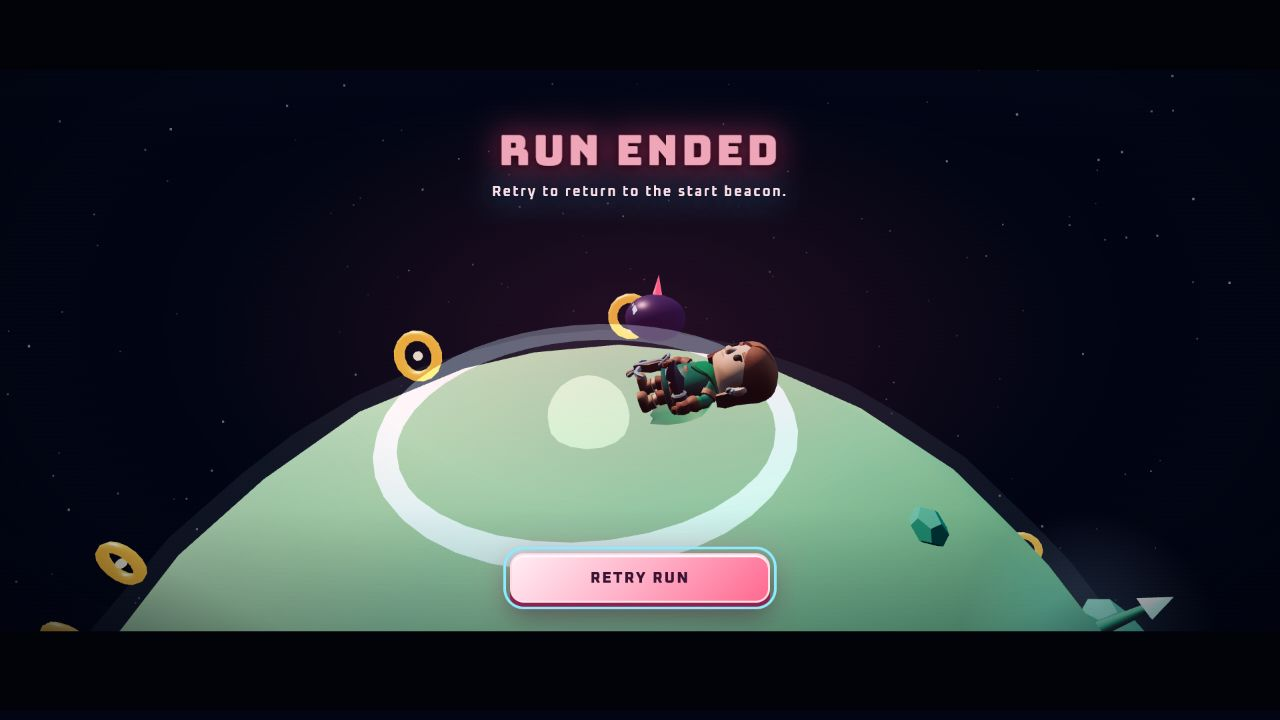
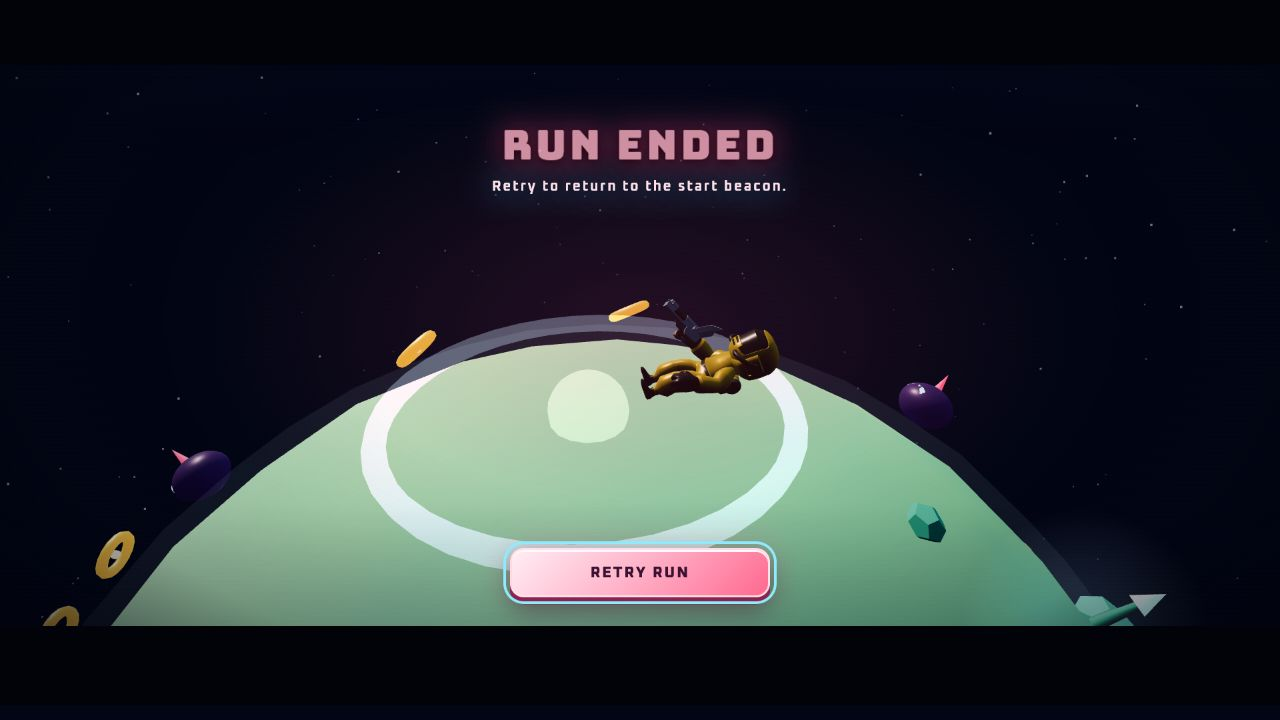
feat: add external hero crown and presentation states

diff --git a/src/game/Game.ts b/src/game/Game.ts
@@ -165,6 +165,7 @@ export class Game {
   private bossMeterText!: HTMLElement;
   private coinText!: HTMLElement;
   private healthText!: HTMLElement;
+  private relicText!: HTMLElement;
   private statusText!: HTMLElement;
   private debugText!: HTMLElement;
   private muteButton!: HTMLButtonElement;
@@ -197,6 +198,7 @@ export class Game {
     this.bossMeterText = this.element('.boss-meter-text');
     this.coinText = this.element('.coin-count');
     this.healthText = this.element('.health-count');
+    this.relicText = this.element('.relic-count');
     this.statusText = this.element('.status-copy');
     this.debugText = this.element('.debug-panel');
     this.muteButton = this.element<HTMLButtonElement>('.mute-button');
@@ -205,7 +207,11 @@ export class Game {
     this.bindUi();
     this.resize();
     this.updateUi();
-    void Promise.all([this.loadCharacterModel(), this.loadLaunchPortalModel()]).then(this.finishLoading);
+    void Promise.all([
+      this.loadCharacterModel(),
+      this.loadLaunchPortalModel(),
+      this.loadRelicModel(),
+    ]).then(this.finishLoading);
     window.addEventListener('resize', this.resize);
     window.__starboundDebug = () => this.debugSnapshot();
   }
@@ -829,6 +835,16 @@ export class Game {
     const heading = this.playerHeading.clone().projectOnPlane(normal);
     if (heading.lengthSq() < 0.001) heading.copy(WORLD_UP).projectOnPlane(normal);
     heading.normalize();
+    // The Warden has already been defeated before either crown can be
+    // claimed. Keep its collapse out of the reward composition so it cannot
+    // sit between the camera and Nova while the celebration starts.
+    if (this.activePlanet.boss?.defeated) {
+      this.activePlanet.boss.mesh.visible = false;
+      // The arena ring is a separate group, so hide it with the Warden to
+      // keep its purple circle from becoming a foreground occluder.
+      const bossArena = this.activePlanet.group.getObjectByName('boss arena');
+      if (bossArena) bossArena.visible = false;
+    }
     this.phase = 'bossVictory';
     this.bossVictoryCinematic = {
       // Snap the reward beat to the planet surface even when the relic was
@@ -878,11 +894,18 @@ export class Game {
     const cameraSide = new THREE.Vector3().crossVectors(normal, cinematicForward).normalize();
     if (cameraSide.lengthSq() < 0.001) cameraSide.set(1, 0, 0);
     const cameraPosition = position.clone()
-      .addScaledVector(normal, THREE.MathUtils.lerp(7.8, 9.6, beat))
-      .addScaledVector(cameraSide, Math.sin(orbit) * THREE.MathUtils.lerp(2.8, 4.8, beat))
-      .addScaledVector(cinematicForward, 7.8 + Math.cos(orbit) * 2.2);
-    const cameraTarget = position.clone().addScaledVector(normal, 1.1);
-    this.camera.position.lerp(cameraPosition, 1 - Math.exp(-4.6 * delta));
+      // Keep the camera on an outward-normal line so the Warden cannot sit
+      // between Nova and the lens during the crown beat. A small tangent
+      // offset adds motion without turning the reward into an occlusion shot.
+      .addScaledVector(normal, THREE.MathUtils.lerp(13.5, 16.5, beat))
+      .addScaledVector(cameraSide, Math.sin(orbit) * THREE.MathUtils.lerp(4.2, 6.4, beat))
+      .addScaledVector(cinematicForward, 2.4 + Math.cos(orbit) * 1.1);
+    // Aim slightly above Nova's helmet so the model settles low in frame,
+    // beneath the title card, while the sphere-normal still controls screen
+    // up. A faster ease keeps the first reward beat from starting in the
+    // previous follow-camera pose.
+    const cameraTarget = position.clone().addScaledVector(normal, 1.45);
+    this.camera.position.lerp(cameraPosition, 1 - Math.exp(-9 * delta));
     this.camera.up.copy(normal);
     this.camera.lookAt(cameraTarget);
 
@@ -980,6 +1003,11 @@ export class Game {
         coin.mesh.visible = false;
         this.coins += 1;
       }
+      // Keep the deterministic crown capture representative of the actual
+      // reward beat: the Warden has fallen, then the ring relic is claimed.
+      if (finalPlanet.boss && !finalPlanet.boss.defeated) {
+        finalPlanet.damageBoss(finalPlanet.boss.health);
+      }
       const ringRelic = finalPlanet.relics.find((relic) => relic.source === 'rings');
       if (ringRelic) {
         this.placePlayerAt(finalPlanet, ringRelic.normal);
@@ -1066,6 +1094,8 @@ export class Game {
       ? 'Launch halo charged — stand inside it and press JUMP.'
       : `Charge the launch halo: ${remaining} star token${remaining === 1 ? '' : 's'} remaining.`;
     if (planet.isBossPlanet) {
+      this.relicText.classList.remove('is-hidden');
+      this.relicText.textContent = `CROWNS ${planet.relicsCollected}/${planet.relics.length}`;
       const remaining = Math.max(0, planet.relicRingTarget - planet.collectedCoins);
       const collectedRelics = planet.relicsCollected;
       const totalRelics = planet.relics.length;
@@ -1076,6 +1106,9 @@ export class Game {
           : collectedRelics > 0
             ? 'Defeat the Crown Warden to claim the second Aurora Crown relic.'
           : `Defeat the Crown Warden or collect ${remaining} more ring${remaining === 1 ? '' : 's'} to awaken a relic.`;
+    } else {
+      this.relicText.classList.add('is-hidden');
+      this.relicText.textContent = '';
     }
     if (planet.isBossPlanet && planet.boss) {
       this.bossCard.classList.remove('is-hidden');
@@ -1173,9 +1206,11 @@ export class Game {
           node.receiveShadow = false;
         }
         // The toon-shooter GLB contains every gun/knife variant in one file.
-        // Hide those props; the game's dedicated two-slot weapon presentation
-        // owns the visible loadout and avoids the previous weapon pile-up.
-        if (/^(Revolver|Sniper|Pistol|SMG|GrenadeLauncher|ShortCannon|Shotgun|RocketLauncher|AK|Shovel|Knife)/.test(node.name)) {
+        // Keep one compact blaster and one knife for the game's two-slot
+        // attack presentation, and hide every other authored weapon branch.
+        const isWeaponRoot = /^(Revolver|Sniper|Pistol|SMG|GrenadeLauncher|ShortCannon|Shotgun|RocketLauncher|AK|Shovel|Knife)/.test(node.name)
+          && Boolean(node.parent && /Index1R|Index2R|Index3R/.test(node.parent.name));
+        if (isWeaponRoot && !/^(Pistol|Knife_1)$/.test(node.name)) {
           node.visible = false;
         }
       });
@@ -1244,6 +1279,30 @@ export class Game {
     }
   }
 
+  private async loadRelicModel(): Promise<void> {
+    try {
+      const { GLTFLoader } = await import('three/addons/loaders/GLTFLoader.js');
+      const loader = new GLTFLoader();
+      await new Promise<void>((resolve) => {
+        loader.load(
+          assetPath('assets/relics/quaternius-aurora-crown.glb'),
+          (gltf) => {
+            for (const planet of this.planets) planet.attachRelicModel(gltf.scene);
+            this.loadedAssetIds.push('quaternius-aurora-crown');
+            resolve();
+          },
+          undefined,
+          () => {
+            this.assetErrors.push('quaternius-aurora-crown: failed to load; using procedural crown aura');
+            resolve();
+          },
+        );
+      });
+    } catch {
+      this.assetErrors.push('quaternius-aurora-crown: loader failed to initialize; using procedural crown aura');
+    }
+  }
+
   private readonly finishLoading = async (): Promise<void> => {
     const remaining = MINIMUM_LOADING_SCREEN_DURATION - (performance.now() - this.loadingStartedAt);
     if (remaining > 0) {
@@ -1292,7 +1351,7 @@ export class Game {
         <header class="hud is-hidden" aria-live="polite">
           <div class="hud-brand"><span>STARBOUND</span><b>SPRINT</b></div>
           <div class="hud-route"><span class="route-label">CURRENT ORBIT</span><strong class="hud-planet"></strong></div>
-          <div class="hud-stats"><span class="coin-count"></span><span class="health-count"></span></div>
+          <div class="hud-stats"><span class="coin-count"></span><span class="health-count"></span><span class="relic-count is-hidden" aria-label="Aurora Crown relics collected"></span></div>
           <button class="mute-button" type="button" aria-pressed="false">SOUND ON</button>
           <section class="mission-card"><span class="mission-label">OBJECTIVE</span><p class="mission-copy"></p></section>
           <section class="boss-card is-hidden" aria-live="polite"><div class="boss-card-heading"><span class="mission-label">CROWN WARDEN</span><strong class="boss-meter-text"></strong></div><div class="boss-meter"><i class="boss-meter-fill"></i></div></section>

diff --git a/src/game/World.ts b/src/game/World.ts
@@ -376,6 +376,7 @@ function createRelic(): THREE.Group {
     blending: THREE.AdditiveBlending,
   });
   const crown = new THREE.Mesh(new THREE.TorusGeometry(0.72, 0.13, 8, 28), crownMaterial);
+  crown.name = 'procedural-relic-crown';
   crown.rotation.x = Math.PI / 2;
   const core = new THREE.Mesh(new THREE.OctahedronGeometry(0.38, 1), coreMaterial);
   core.position.y = 0.18;
@@ -803,6 +804,37 @@ export class Planet {
     this.launchPad.add(model);
   }
 
+  /**
+   * Replaces the simple torus crown silhouette with a shared imported relic
+   * while retaining the cyan core/beam as the cheap readability fallback.
+   */
+  attachRelicModel(source: THREE.Object3D): void {
+    for (const relic of this.relics) {
+      const model = source.clone(true);
+      model.name = 'quaternius aurora crown';
+      model.traverse((node) => {
+        if (node instanceof THREE.Mesh) {
+          node.castShadow = false;
+          node.receiveShadow = false;
+        }
+      });
+      const bounds = new THREE.Box3().setFromObject(model);
+      const sourceSize = bounds.getSize(new THREE.Vector3());
+      const targetSize = 1.55;
+      const scale = targetSize / Math.max(0.001, Math.max(sourceSize.x, sourceSize.y, sourceSize.z));
+      model.scale.setScalar(scale);
+      const scaledBounds = new THREE.Box3().setFromObject(model);
+      const center = scaledBounds.getCenter(new THREE.Vector3());
+      model.position.set(-center.x, -scaledBounds.min.y + 0.24, -center.z);
+      model.rotation.y = Math.PI;
+      const fallback = relic.mesh.getObjectByName('procedural-relic-crown');
+      if (fallback) fallback.visible = false;
+      const previous = relic.mesh.getObjectByName('quaternius aurora crown');
+      if (previous) relic.mesh.remove(previous);
+      relic.mesh.add(model);
+    }
+  }
+
   collectNear(normal: THREE.Vector3, threshold = 1.15): Coin | undefined {
     const coin = this.coins.find((candidate) => !candidate.collected && arcDistance(candidate.normal, normal, this.definition.radius) < threshold);
     if (!coin) return undefined;
@@ -1178,7 +1210,7 @@ interface WeaponPose {
   readonly equipScale: THREE.Vector3;
 }
 
-const HERO_WEAPON_LOADOUT = new Set(['1H_Crossbow', 'Knife_Offhand']);
+const HERO_WEAPON_LOADOUT = new Set(['1H_Crossbow', 'Knife_Offhand', 'Pistol', 'Knife_1']);
 const HERO_HIDDEN_WEAPONS = new Set(['2H_Crossbow', 'Knife', 'Throwable']);
 
 export interface HeroVisual {
@@ -1254,10 +1286,10 @@ export function createHeroVisual(): HeroVisual {
   }
   fallback.add(body, helmet, visorMesh, pack, core);
 
-  // The source rogue ships every hand-slot prop in the same scene. Keep a
-  // readable two-piece loadout (crossbow + offhand knife), and animate those
-  // props independently so equip/attack beats remain visible even when the
-  // authored arm clips are cross-faded. The knife is a vertical cylinder, so
+  // Character sources can ship every hand-slot prop in one scene. Keep a
+  // readable two-piece loadout (blaster/crossbow + offhand knife), and animate
+  // those props independently so equip/attack beats remain visible even when
+  // the authored arm clips are cross-faded. The knife is a vertical cylinder, so
   // it needs a roll around its local Z axis to read as a slash (a small Y
   // recoil, which works for the crossbow, is almost invisible on the blade).
   let weaponPoses: WeaponPose[] = [];
@@ -1283,7 +1315,7 @@ export function createHeroVisual(): HeroVisual {
       // the source GLB or introducing another weapon mesh.
       const pulse = Math.sin(progress * Math.PI);
       for (const pose of weaponPoses) {
-        const isKnife = pose.object.name === 'Knife_Offhand';
+        const isKnife = /knife/i.test(pose.object.name);
         pose.object.position.copy(pose.position);
         pose.object.position.z -= pulse * (isKnife ? 0.13 : 0.075);
         pose.object.position.x += (isKnife ? -1 : 1) * pulse * (isKnife ? 0.07 : 0.035);

diff --git a/src/harness/PresentationHarness.ts b/src/harness/PresentationHarness.ts
@@ -222,7 +222,8 @@ export class PresentationHarness {
   private async loadAssets(): Promise<void> {
     const manifest = await this.loadManifest();
     const models = (manifest?.assets ?? []).filter((asset) => asset.kind === 'model/gltf-binary' && asset.url);
-    const characterAsset = models.find((asset) => /character|rogue|hero/i.test(`${asset.id} ${asset.url}`));
+    const characterAsset = models.find((asset) => asset.id === 'quaternius-hazmat')
+      ?? models.find((asset) => /character|rogue|hero/i.test(`${asset.id} ${asset.url}`));
     const crownAsset = models.find((asset) => /crown|relic|aurora/i.test(`${asset.id} ${asset.url}`));
     const portalAsset = models.find((asset) => /portal|gate/i.test(`${asset.id} ${asset.url}`));
 
@@ -252,7 +253,7 @@ export class PresentationHarness {
     this.stations[2].group.add(defeatPatch);
     const defeat = await this.loadOrFallbackCharacter(characterAsset?.url);
     this.placeCharacterOnPatch(defeat, defeatPatch, 'Death_A');
-    const deathAction = this.findAction(defeat, ['Death_A', 'Death_B', 'Hit_A']);
+    const deathAction = this.findAction(defeat, ['Death_A', 'Death_B', 'Death', 'Hit_A', 'HitReact']);
     if (deathAction) {
       deathAction.reset().play();
       deathAction.time = deathAction.getClip().duration * 0.96;
@@ -303,6 +304,13 @@ export class PresentationHarness {
           node.castShadow = false;
           node.receiveShadow = false;
         }
+        // The Quaternius hazmat file ships a complete firearm shelf in one
+        // scene. Hide those variants in the review room just as the game
+        // loader does, so the character silhouette is judged without a weapon
+        // pile-up.
+        if (/^(Revolver|Sniper|Pistol|SMG|GrenadeLauncher|ShortCannon|Shotgun|RocketLauncher|AK|Shovel|Knife)/.test(node.name)) {
+          node.visible = false;
+        }
       });
       return { root: gltf.scene, mixer, clips, source: url };
     } catch {
@@ -324,7 +332,9 @@ export class PresentationHarness {
     const patchRadius = 1.22;
     normalized.position.set(patch.position.x, patch.position.y + patchRadius * 2 + 0.015, patch.position.z);
     normalized.rotation.set(0, Math.PI, 0);
-    const action = this.findAction(model, [clipName, clipName === 'Death_A' ? 'Death_B' : 'Cheer']);
+    const action = this.findAction(model, clipName === 'Death_A'
+      ? ['Death_A', 'Death_B', 'Death', 'Hit_A', 'HitReact']
+      : ['Cheer', 'Wave', 'Dance', 'Victory']);
     if (action) {
       action.reset().setLoop(THREE.LoopRepeat, Infinity).play();
       if (clipName === 'Death_A') action.setLoop(THREE.LoopOnce, 1);
@@ -333,7 +343,11 @@ export class PresentationHarness {
 
   private findAction(model: LoadedModel, names: string[]): THREE.AnimationAction | undefined {
     if (!model.mixer) return undefined;
-    const clip = names.map((name) => model.clips.get(name)).find((candidate): candidate is THREE.AnimationClip => Boolean(candidate));
+    const normalizedNames = names.map((name) => name.toLowerCase().replace(/[^a-z0-9]/g, ''));
+    const clip = [...model.clips.values()].find((candidate) => {
+      const clipName = candidate.name.toLowerCase().replace(/[^a-z0-9]/g, '');
+      return normalizedNames.some((name) => clipName === name || clipName.endsWith(name));
+    });
     return clip ? model.mixer.clipAction(clip) : undefined;
   }
 

diff --git a/src/styles.css b/src/styles.css
@@ -273,6 +273,8 @@ button {
 }
 
 .health-count { color: #ff8ea5; letter-spacing: 0.12em; }
+.relic-count { color: #d7b9ff; font-size: 0.7rem; letter-spacing: 0.1em; }
+.relic-count.is-hidden { opacity: 0; visibility: hidden; }
 
 .mute-button {
   position: absolute;

diff --git a/docs/qa/presentation-review.md b/docs/qa/presentation-review.md
@@ -7,26 +7,28 @@ capture in `presentation-harness.png` contains four fixed stations:
 | Station | Acceptance check |
 | --- | --- |
 | Portal | Gate transform stays fixed over time; the uncharged circle is dim and the charged circle is the only illuminated state. |
-| Celebration | Nova's feet meet the top of the sphere patch, local up is world-up, and the `Cheer` clip is readable without an inverted rig. |
-| Defeat | `Death_A`/`Death_B` is sampled once near the end and paused; the rig remains in that pose while the camera can orbit. |
-| Relic | The external crown model is used when it appears in `asset-manifest.json`; otherwise the intentionally simple procedural crown makes the silhouette/scale reviewable. |
+| Celebration | Nova's feet meet the top of the sphere patch, the sphere normal is local up, and the Hazmat `Wave` clip is readable without an inverted rig. |
+| Defeat | The Hazmat `Death` clip is sampled once near the end and paused; the rig remains in that pose while the camera can orbit. |
+| Relic | The Quaternius Aurora Crown GLB is visible with its low-cost cyan aura retained as a readability layer. |
 
-## Baseline findings
+## Findings and fixes
 
 Before the gameplay fix, `Planet.update()` advanced `launchPad.rotation.y` on
 every frame, so the portal could not satisfy the static-transform requirement.
-The old defeat loop repeatedly called `setCharacterAnimation('hurt')` during
-the first half of the cinematic and never explicitly paused the action after
-the fall, which is consistent with a repeated fall/hurt pose. The harness
-isolates both presentation concerns so a future capture can confirm that only
-the charged material and camera change over time.
+The gate is now a fixed landmark; only the named energy circle/ring changes
+opacity and pulse after the ring threshold is met. The old defeat loop
+repeatedly called `setCharacterAnimation('hurt')` during the first half of the
+cinematic and never explicitly paused the action after the fall. The imported
+death action now uses `LoopOnce`, clamps, and pauses at the end. The reward beat
+snaps Nova to the sphere surface, aligns local up to the sphere normal, and
+starts from an outward camera that keeps the defeated arena out of the frame.
 
 ## Capture metadata
 
 - Route: `http://127.0.0.1:5189/?harness=presentation`
-- View: Chrome visual QA viewport (1251×1270)
+- View: In-app Browser visual QA viewport (1280x720)
 - Browser console: no errors or warnings
-- Loaded character: `kaykit-rogue` (manifest-discovered)
-- Crown: procedural fallback (no external crown was present in the baseline manifest)
+- Loaded character: `quaternius-hazmat` (17 animation clips, manifest-discovered)
+- Crown: `quaternius-aurora-crown` (840 triangles, manifest-discovered)
 - Portal: `kenney-gate-complex` (manifest-discovered)
 - File: `docs/qa/presentation-harness.png`

diff --git a/docs/ASSET_SOURCES.md b/docs/ASSET_SOURCES.md
@@ -6,7 +6,7 @@ This repository uses only assets whose source page and license were checked on 2
 
 | ID | Source and license | Intended use | Downloaded size | Runtime path | Integration notes |
 | --- | --- | --- | ---: | --- | --- |
-| `kaykit-rogue` | [KayKit Character Pack: Adventures](https://github.com/KayKit-Game-Assets/KayKit-Character-Pack-Adventures-1.0), [CC0 license](https://github.com/KayKit-Game-Assets/KayKit-Character-Pack-Adventures-1.0/blob/main/LICENSE.txt) | Primary player character | `Rogue.glb`: 3,616,284 bytes (3.45 MiB) | `public/assets/characters/kaykit-rogue.glb` | Official KayKit source. The package describes four low-poly, textured, rigged characters with 75 animations and GLTF support. The downloaded GLB validates as glTF 2.0 with one skin, one embedded image, 76 named clips, 6,377 triangles, 12 mesh primitives, one material, and one texture. Use `Idle`, `Running_A`, `Jump_Start`, `Jump_Full_Long`, `Jump_Land`, and `Unarmed_Melee_Attack_Kick` for the prototype; keep the procedural capsule player as the synchronous fallback if the request fails. |
+| `kaykit-rogue` | [KayKit Character Pack: Adventures](https://github.com/KayKit-Game-Assets/KayKit-Character-Pack-Adventures-1.0), [CC0 license](https://github.com/KayKit-Game-Assets/KayKit-Character-Pack-Adventures-1.0/blob/main/LICENSE.txt) | Authored fallback player character | `Rogue.glb`: 3,616,284 bytes (3.45 MiB) | `public/assets/characters/kaykit-rogue.glb` | Official KayKit source. The package describes four low-poly, textured, rigged characters with 75 animations and GLTF support. The downloaded GLB validates as glTF 2.0 with one skin, one embedded image, 76 named clips, 6,377 triangles, 12 mesh primitives, one material, and one texture. The loader uses it only when the selected Hazmat GLB cannot be fetched; keep the procedural capsule player as the synchronous fallback if both requests fail. |
 | `quaternius-hazmat` | [Poly Pizza model page](https://poly.pizza/m/z3TSQYx1Kn), [direct GLB](https://static.poly.pizza/484450a4-b76c-4e76-95d2-352337bb41e8.glb), [CC0 license](https://creativecommons.org/publicdomain/zero/1.0/) | Primary colorful space-suit player character | `quaternius-character-hazmat.glb`: 1,401,712 bytes | `public/assets/characters/quaternius-hazmat.glb` | Quaternius toon space-suit model. Validates as glTF 2.0 with 17 clips and 20,346 triangles. `Game.loadCharacterModel()` maps `Idle`, `Run`, `Jump`, `Jump_Idle`, `Jump_Land`, `Punch`, `HitReact`, and `Wave`; bundled firearm/tool variants are hidden before bounds calculation. KayKit Rogue remains the authored fallback. |
 | `quaternius-aurora-crown` | [Poly Pizza model page](https://poly.pizza/m/i0PZVuVlYv), [direct GLB](https://static.poly.pizza/1381b02a-8310-437b-a2a7-82cab0a94a4c.glb), [CC0 license](https://creativecommons.org/publicdomain/zero/1.0/) | Aurora Crown relic mesh | `quaternius-crown.glb`: 47,620 bytes | `public/assets/relics/quaternius-aurora-crown.glb` | Static 840-triangle crown with two meshes and no textures/animations. Clone it into each relic, scale it to the sphere surface, and retain the procedural cyan aura as a readable emissive shell. |
 | `kenney-gate-complex` | [Kenney Space Kit](https://kenney.nl/assets/space-kit), [CC0 license](https://creativecommons.org/publicdomain/zero/1.0/) | Imported launch portal | `gate_complex.glb`: 29,912 bytes | `public/assets/portals/kenney-gate-complex.glb` | The official Space Kit 2.0 package includes GLB exports. The imported gate is staged and scaled at runtime for every sphere; the existing procedural portal remains the load-failure fallback. |
@@ -43,7 +43,7 @@ These exact URLs are the download provenance recorded in the asset manifest:
 The selected set is 7,843,445 bytes (7.48 MiB) before HTTP compression. It is deliberately below the 40 MB initial-GLB guideline and keeps every reusable GLB below the 6 MB prop ceiling. SHA-256 values and validated animation aliases are in `public/assets/asset-manifest.json`.
 
 1. Render the procedural player, HUD, and title screen first.
-2. Load `kaykit-rogue` after the playable scene is constructed. If it rejects or contains no usable clips, retain the procedural player and log the manifest ID.
+2. Load `quaternius-hazmat` after the playable scene is constructed. If it rejects, load `kaykit-rogue`; if both fail or contain no usable clips, retain the procedural player and log the manifest ID.
 3. Unlock and begin audio only after the first tap/click. Start the Eleven Music gameplay loop first; if it is unavailable, fall back to the CC0 `orbital-action` loop.
 4. Load the cinematic/title loop only when that state is entered. Keep one gameplay music instance alive rather than overlapping copies.
 5. Expose loaded asset IDs, HTTP load failures, and `renderer.info` metrics through the game's debug/test API.